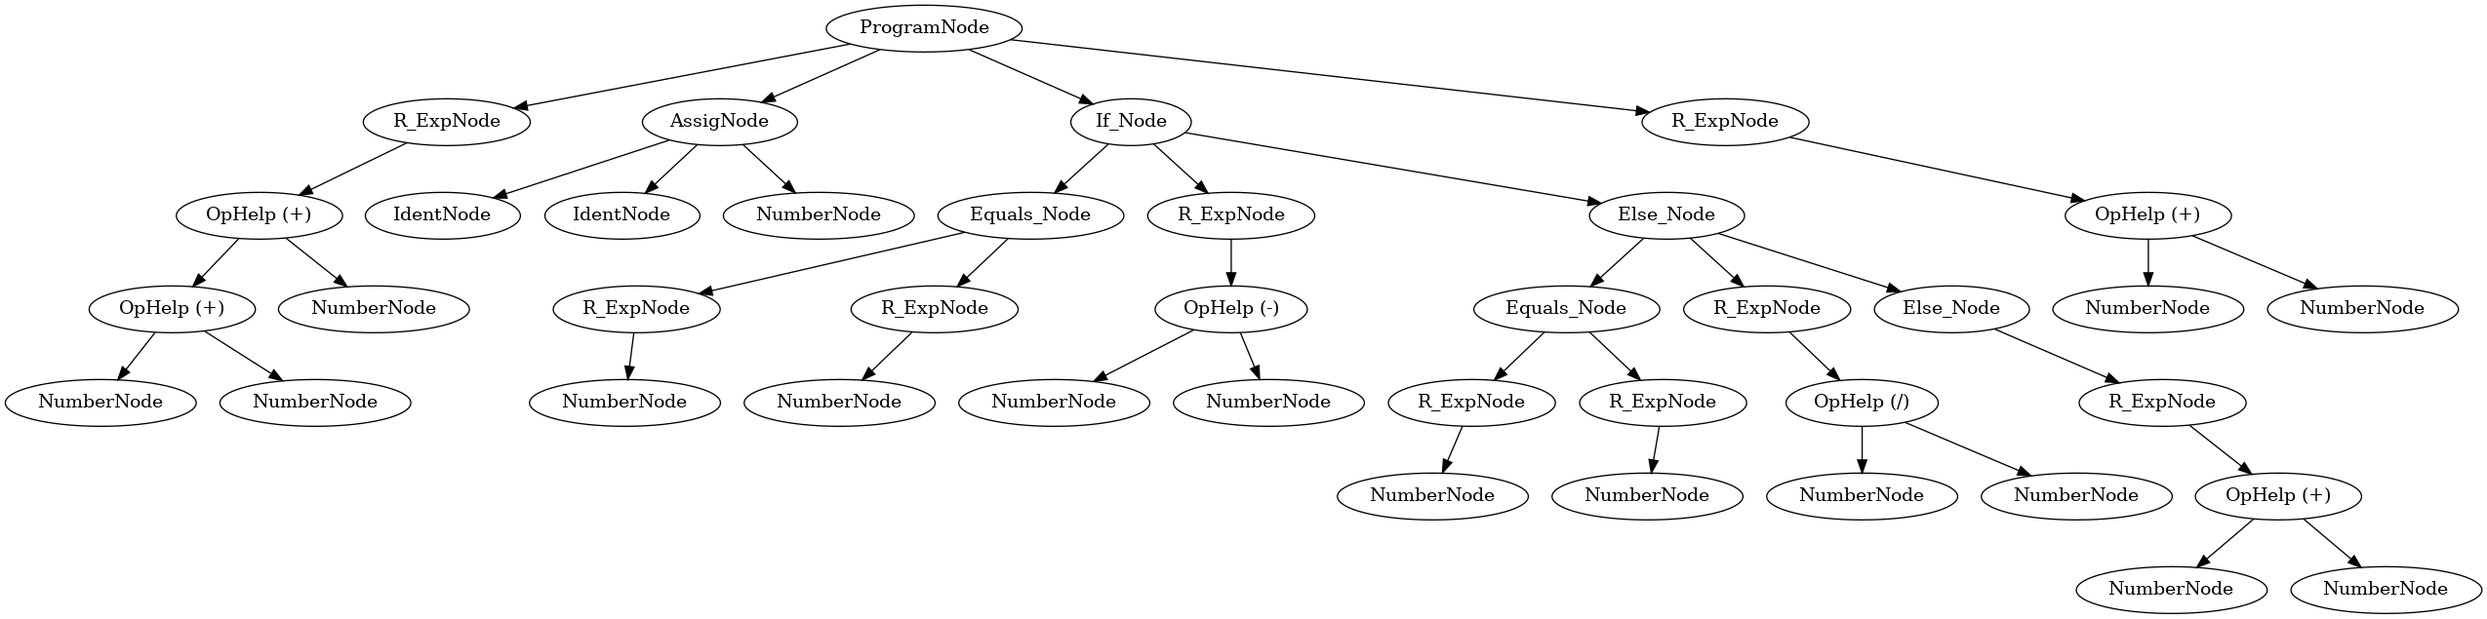
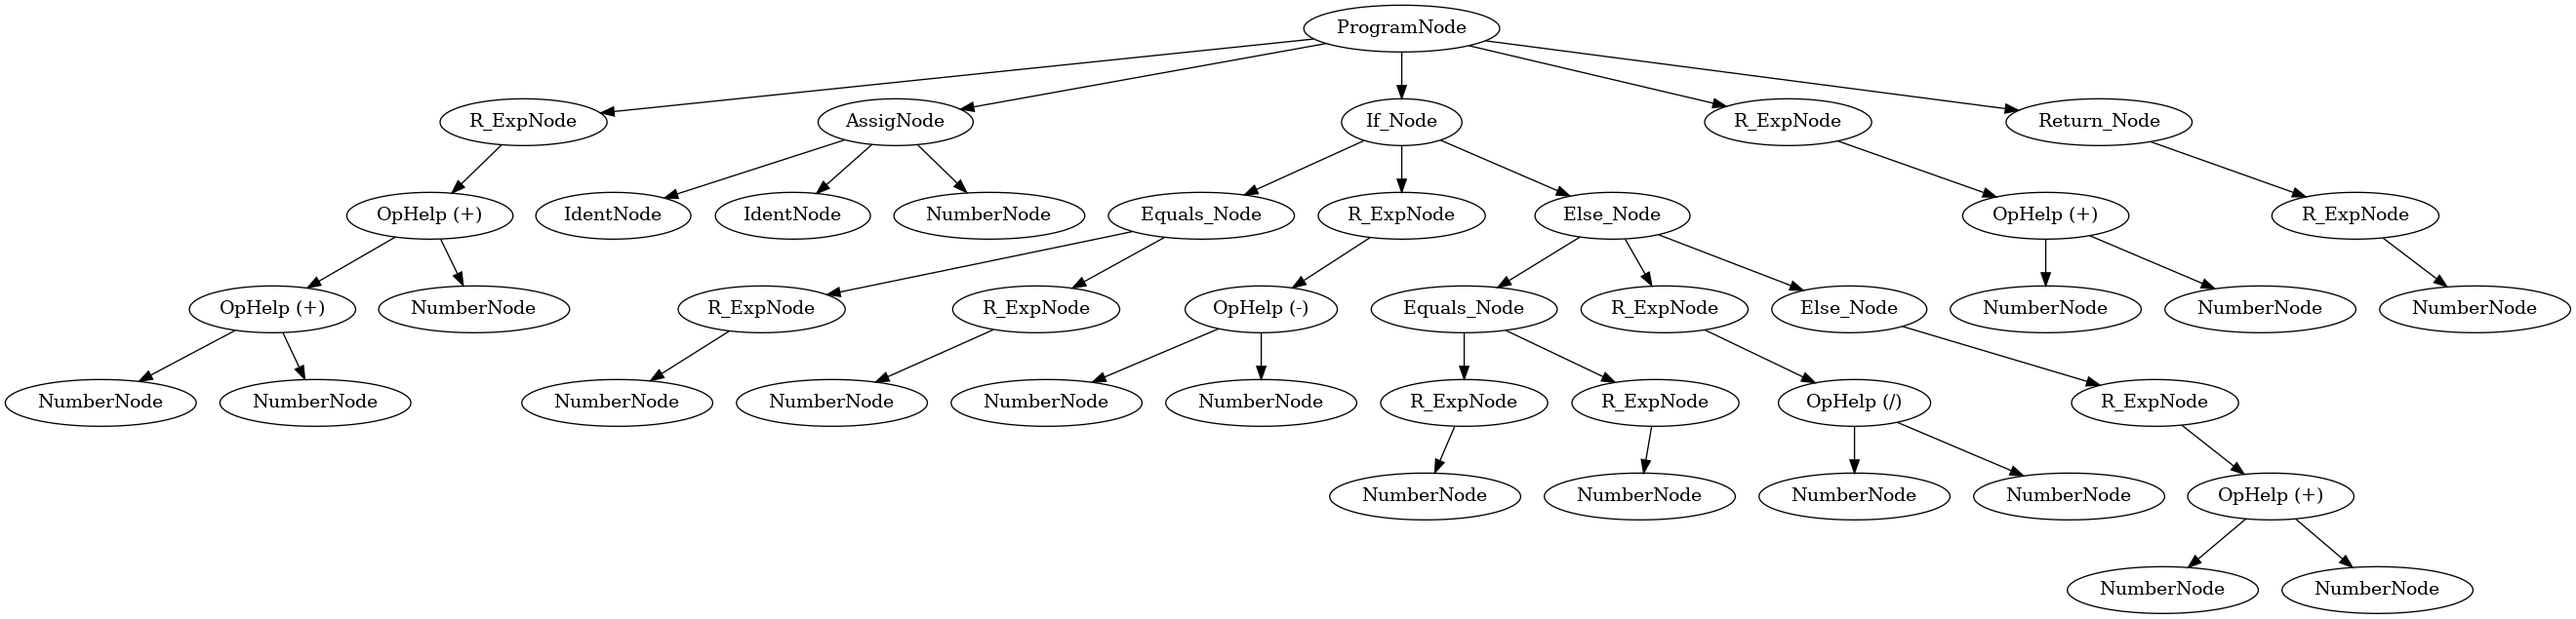
return working?

diff --git a/AST.py b/AST.py
@@ -278,6 +278,14 @@ class Equals_Node(ASTNode):
         self.right.code_gen(buffer)
         buffer.append(f"call Int:Equals")
 
+class Return_Node(ASTNode):
+    def __init__(self, value):
+        self.value = value
+        self.children = [value]
+
+    def code_gen(self, buffer):
+       self.value.code_gen(buffer)
+       buffer.append(f"return 1") 
 
 class Temp_Node(ASTNode):
     def __init__(self, left, right):

diff --git a/grammar.py b/grammar.py
@@ -44,6 +44,9 @@ class QuackTransformer(Transformer):
 
     def log_exp(self, left, right):
         return Log_Exp_Node(left, right)
+    
+    def return_statement(self, value):
+        return Return_Node(value)
 
     def equals(self, left, right):
         return Equals_Node(left, right)
